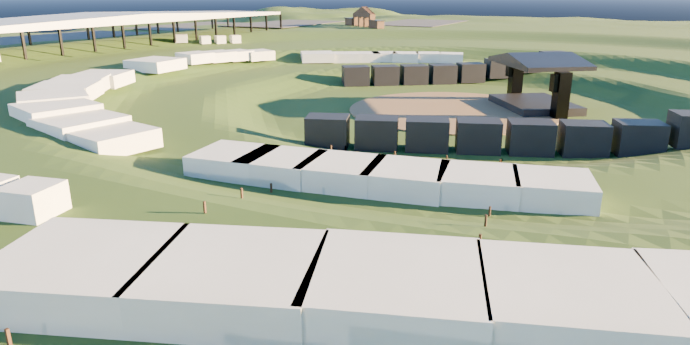
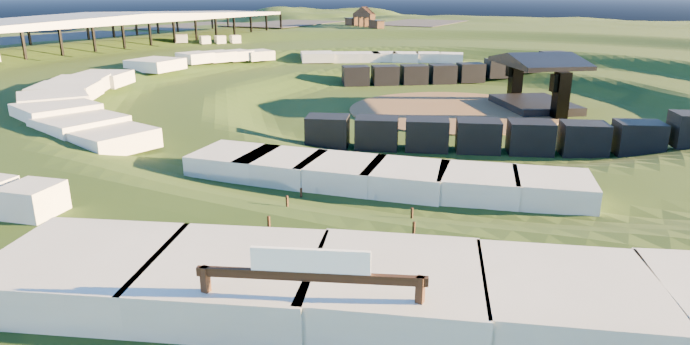
Encaixa a Fazendinha no vao livre entre as fileiras de estandes
O eixo da faixa vinha de deducao geometrica minha, e estava errado duas vezes
seguidas -- radial e depois tangente. A sobreposicao em planta mostrou a cerca
atravessando estandes vendidos nas duas tentativas. O titulo vermelho da
prancha e escrito ao longo da faixa, entao o extrator passa a guardar a
direcao de cada titulo e o gerador usa esse dado em vez de deduzir.

Largura e comprimento tambem sairam da escolha e passaram a sair da medida: o
gerador procura o maior retangulo que cabe entre as fileiras, com folga, e
encurta ate caber. Se nada couber, monta so a porteira -- que e o que o
cliente pediu nominalmente. Cerca por cima de estande vendido e erro mais caro
que cerca ausente.

Claude-Session: https://claude.ai/code/session_01Cr48auUeVceFnmb5xw1uAP

diff --git a/scripts/build_scene.py b/scripts/build_scene.py
@@ -646,7 +646,7 @@ def construir_galpoes(dados, col, mats, centro_arena):
 RAIO_LEILOES = 19.0      # m -- a estrela do recinto tem ~38 m de ponta a ponta
 ALTURA_LEILOES = 7.0
 PISTA_JULGAMENTO = (42.0, 59.0)   # m -- retangulo de pasto com pontas redondas
-FAZENDINHA = (28.0, 90.0)         # m -- faixa de grama entre duas fileiras
+FAZENDINHA = (14.0, 90.0)         # m -- largura maxima e comprimento da faixa
 
 
 def construir_leiloes(dados, col, mats, centro_arena):
@@ -733,6 +733,67 @@ def construir_pista_julgamento(dados, col, mats, centro_arena):
                       col, mats, centro_arena)
 
 
+def ajustar_faixa(dados, x, y, angulo, larg_max, prof_max, folga=1.5):
+    """Maior retangulo livre de estandes, no eixo dado, centrado no ponto.
+
+    Encurta o comprimento em passos e, para cada um, mede o vao entre as
+    fileiras. Devolve o primeiro par que cabe com folga -- estande e material
+    de venda de espaco fisico, cerca por cima dele e erro caro.
+    """
+    for prof in [prof_max * f for f in (1.0, 0.8, 0.65, 0.5, 0.4, 0.3, 0.2)]:
+        larg = min(larg_max, vao_livre(dados, x, y, angulo, prof, folga))
+        if larg >= 6.0 and not invade_estande(dados, x, y, angulo, larg, prof, folga):
+            return larg, prof
+    # Nada coube: as fileiras sao arcos e a faixa e reta. Devolve zero, e quem
+    # chamou monta so a porteira -- que e o que o cliente pediu nominalmente.
+    # Cerca por cima de estande vendido e erro mais caro que cerca ausente.
+    return 0.0, 0.0
+
+
+def invade_estande(dados, x, y, angulo, larg, prof, folga=1.5):
+    """Diz se o retangulo dado encosta em algum estande cotado."""
+    origem = dados["_origem"]
+    cos, sen = math.cos(-angulo), math.sin(-angulo)
+    for st in dados["estandes"]:
+        if st.get("area_m2") is None:
+            continue
+        ex, ey = para_mundo(st["x"], st["y"], origem)
+        dx, dy = ex - x, ey - y
+        u = dx * cos - dy * sen
+        v = dx * sen + dy * cos
+        meio = math.sqrt(st["area_m2"]) / 2 + folga
+        if abs(u) < prof / 2 + meio and abs(v) < larg / 2 + meio:
+            return True
+    return False
+
+
+def vao_livre(dados, x, y, angulo, comprimento, folga=1.5):
+    """Largura livre entre os estandes, no eixo dado, ao redor de um ponto.
+
+    Projeta cada estande no referencial da faixa e devolve o dobro da menor
+    distancia livre ate um deles, de cada lado. E o que impede a cerca de
+    atravessar estande vendido.
+    """
+    origem = dados["_origem"]
+    cos, sen = math.cos(-angulo), math.sin(-angulo)
+    esquerda = direita = 40.0
+    for st in dados["estandes"]:
+        if st.get("area_m2") is None:
+            continue
+        ex, ey = para_mundo(st["x"], st["y"], origem)
+        dx, dy = ex - x, ey - y
+        u = dx * cos - dy * sen        # ao longo da faixa
+        v = dx * sen + dy * cos        # atravessado
+        if abs(u) > comprimento / 2:
+            continue
+        meio_lado = math.sqrt(st["area_m2"]) / 2 + folga
+        if v >= 0:
+            direita = min(direita, max(v - meio_lado, 0.0))
+        else:
+            esquerda = min(esquerda, max(-v - meio_lado, 0.0))
+    return max(6.0, 2 * min(esquerda, direita))
+
+
 def construir_fazendinha(dados, col, mats, centro_arena):
     """Fazendinha: faixa cercada com porteira de destaque na entrada.
 
@@ -746,20 +807,35 @@ def construir_fazendinha(dados, col, mats, centro_arena):
         return 0
     x, y = para_mundo(t["x"], t["y"], dados["_origem"])
     larg, prof = FAZENDINHA
-    # A faixa desce o talude, ou seja, corre no rumo do centro da arena.
-    ang = math.atan2(y - centro_arena[1], x - centro_arena[0]) + math.pi / 2
+    # Eixo da faixa: o do proprio titulo na prancha. Tentei duas vezes deduzir
+    # por geometria (radial, depois tangente) e errei as duas; a sobreposicao
+    # em planta mostrou a cerca atravessando as fileiras de estandes. O titulo
+    # vermelho e escrito ao longo da faixa, entre as duas fileiras -- e o dado,
+    # nao a deducao.
+    ang = angulo_do_rotulo(t)
 
-    feitos = cercar("Fazendinha", x, y, larg, prof, ang, 1.3,
-                    col, mats, centro_arena, passo=8.0)
+    # Largura e comprimento saem do vao livre entre as duas fileiras, medidos,
+    # e nao escolhidos. As fileiras sao arcos e a faixa e reta, entao esticar o
+    # comprimento acaba esbarrando nas pontas: o ajuste encurta ate caber. A
+    # primeira versao usava 28 x 90 m fixos e invadia cinco estandes vendidos.
+    larg_livre, prof_livre = ajustar_faixa(dados, x, y, ang, larg, prof)
+    feitos = 0
+    if larg_livre:
+        larg, prof = larg_livre, prof_livre
+        feitos = cercar("Fazendinha", x, y, larg, prof, ang, 1.3,
+                        col, mats, centro_arena, passo=8.0)
 
     # Porteira: dois esteios, travessa e placa. O nome vai grande na placa e a
     # descricao pequena embaixo -- hierarquia pedida nominalmente pelo cliente.
     #
-    # Fica na ponta de CIMA da faixa, a que olha para os expositores externos:
-    # e por ali que o percurso desce, e porteira de destaque so cumpre o papel
-    # se estiver na chegada. Na ponta de baixo ela ficaria de costas.
-    frente_x = x + math.sin(ang) * (prof / 2)
-    frente_y = y - math.cos(ang) * (prof / 2)
+    # Porteira na ponta mais distante do centro da arena: e por ali que o
+    # percurso desce, vindo dos expositores externos. Porteira de destaque na
+    # saida nao cumpre papel nenhum.
+    dx, dy = -math.sin(ang) * (prof / 2), math.cos(ang) * (prof / 2)
+    if (math.hypot(x + dx - centro_arena[0], y + dy - centro_arena[1]) <
+            math.hypot(x - dx - centro_arena[0], y - dy - centro_arena[1])):
+        dx, dy = -dx, -dy
+    frente_x, frente_y = x + dx, y + dy
     solo = elevacao(frente_x, frente_y, centro_arena)
     for sinal in (-1, 1):
         px = frente_x + math.cos(ang) * sinal * (larg / 2)

diff --git a/scripts/extract_map.py b/scripts/extract_map.py
@@ -118,6 +118,11 @@ def agrupar_titulos(page):
             "texto": " ".join(s["texto"] for s in membros),
             "x": round(sum(s["x"] for s in membros) / len(membros), 2),
             "y": round(sum(s["y"] for s in membros) / len(membros), 2),
+            # A direcao vale tanto quanto a posicao: o titulo e escrito no eixo
+            # da area que ele nomeia. E assim que se descobre que a faixa da
+            # Fazendinha corre entre as duas fileiras de estandes, e nao
+            # atravessada nelas.
+            "dir": [round(dx, 4), round(dy, 4)],
             "spans": len(membros),
         })
     return sorted(titulos, key=lambda t: (t["y"], t["x"]))

diff --git a/ESTADO.md b/ESTADO.md
@@ -182,6 +182,14 @@ O gerador avisa na saída quando isso ocorre; a correção é baixar o `recuo` d
 bloco. Mercado, Agroindústrias e Café Colonial dividem o Pavilhão 3 e por isso
 têm recuo decrescente: a câmera avança pelo galpão enquanto o título muda.
 
+**Eixo de área aberta se lê no título, não se deduz.** Tentei deduzir o eixo da
+faixa da Fazendinha por geometria duas vezes — radial, depois tangente — e errei
+as duas; a cerca atravessava as fileiras de estandes. O título vermelho é escrito
+**ao longo** da faixa, e agora `titulos` carrega a direção de cada um. A largura e
+o comprimento também deixaram de ser escolhidos: saem do vão livre medido entre as
+fileiras, e se nada couber o gerador monta só a porteira. Cerca por cima de estande
+vendido é erro mais caro que cerca ausente.
+
 **A Fazendinha não é prédio, é área aberta.** O título dela na prancha cai
 numa faixa de grama entre duas fileiras de estandes, descendo o talude — bate
 com o áudio ("desce pro lado da pista de tiro de laço"). Por isso ela entrou
